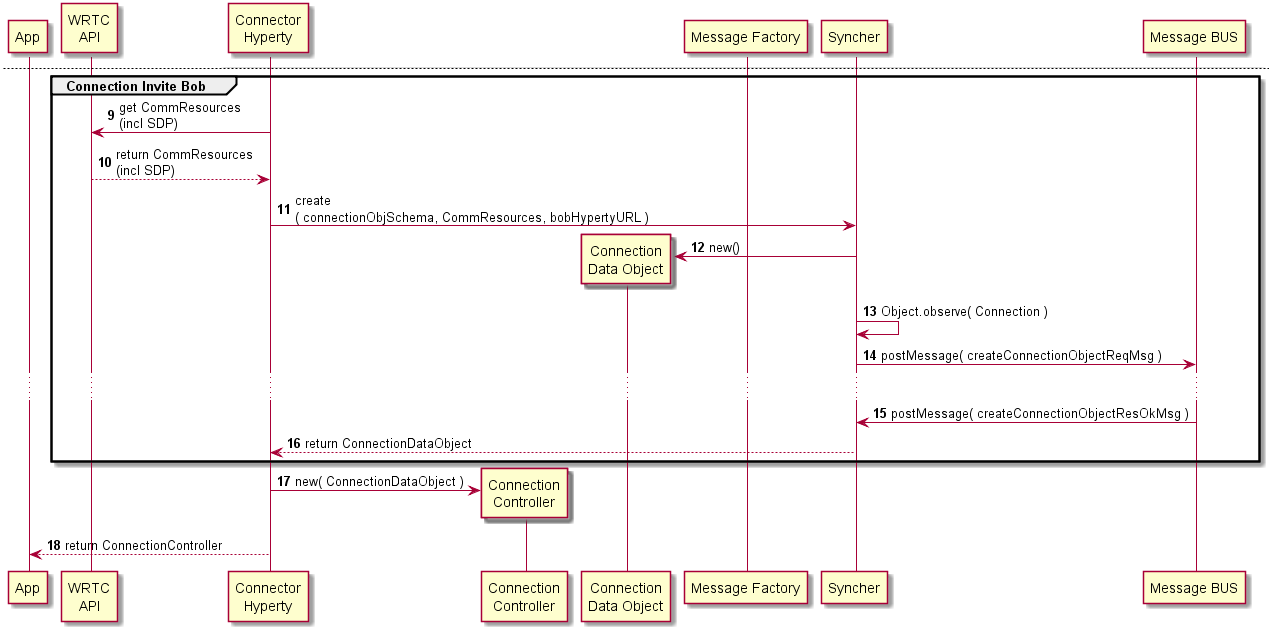
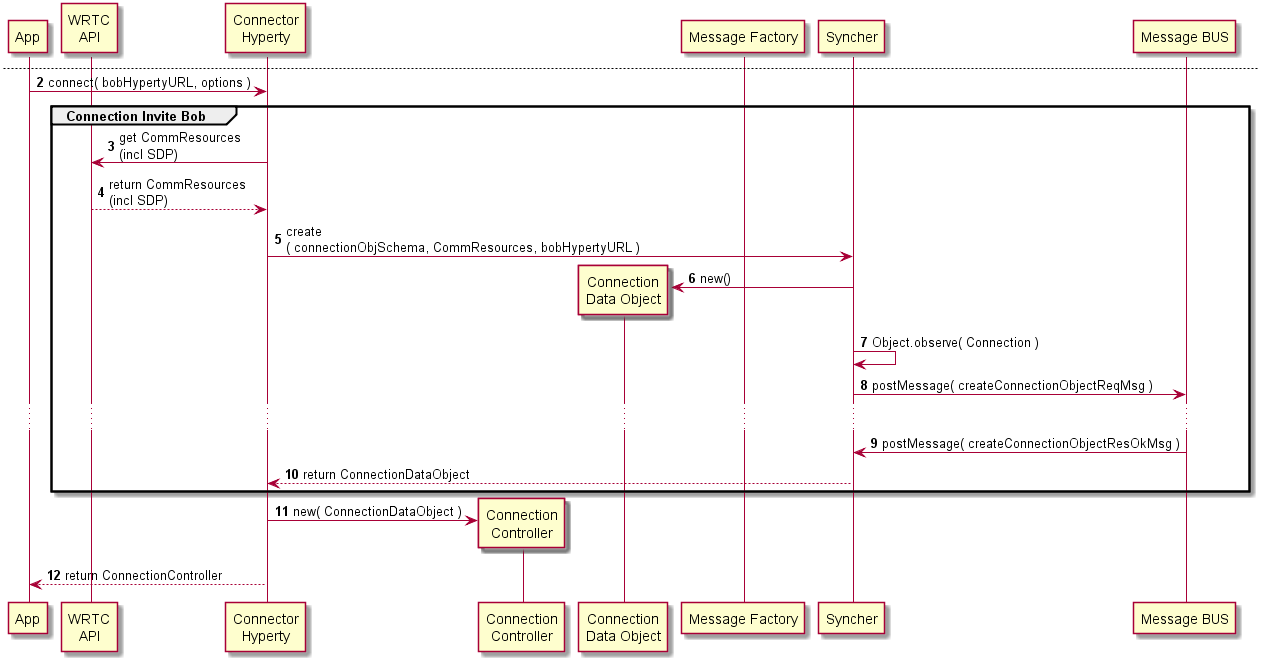
smart contextual scenario and connector hyperty (removed discovery) updated as discussed today in the telco

diff --git a/docs/hyperties/connector/readme.md b/docs/hyperties/connector/readme.md
@@ -15,7 +15,7 @@ The Connector main functionality is to handle two party audio and voice conversa
 
 ![Architecture](connector-arch.png)
 
-As depicted above, the Connector Hyperty comprises the Connector class that handles the creation of new outgoing or incoming connections. Each Connection is instance is controlled by the ConnectionController class that uses the the native WebRTC API.
+As depicted above, the Connector Hyperty comprises the Connector class that handles the creation of new outgoing or incoming connections. Each Connection instance is controlled by the ConnectionController class that uses the the native WebRTC API.
 
 The Connection signalling is handled by the Syncher class from the Hyperty Service Framework library according to the Reporter-Observer data synchronisation mechanism, by using the standard [Connection Data Objects](https://github.com/reTHINK-project/architecture/tree/master/docs/datamodel/connection).
 
@@ -65,9 +65,9 @@ This function is used to remove a peer from an existing connection instance.
 
 The following main use cases are supported by the Connector Hyperty:
 
-#### User Discovery
+#### Hyperty initialisation
 
-Discovery of User (Bob) to connect to:
+Application adds a listener to receive incoming connection requests events.
 
 ![Bob Discovery](connector-invite.png)
 
